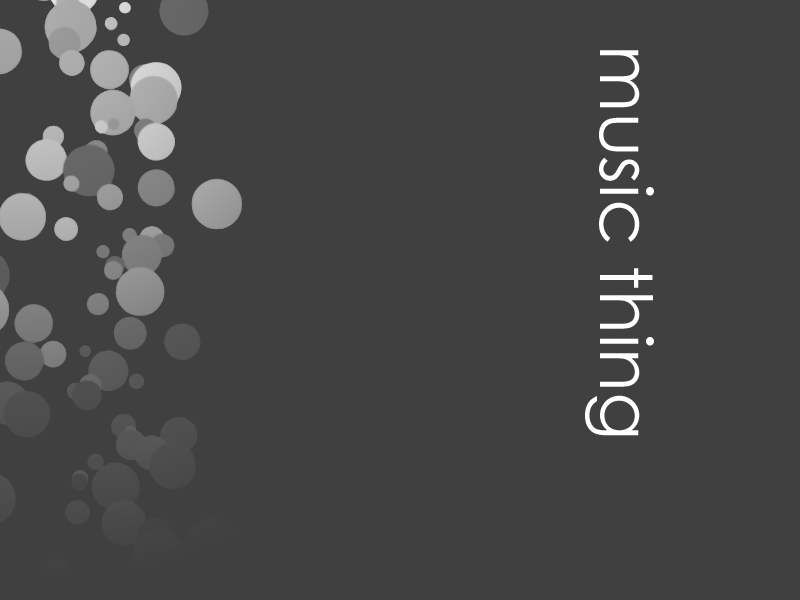
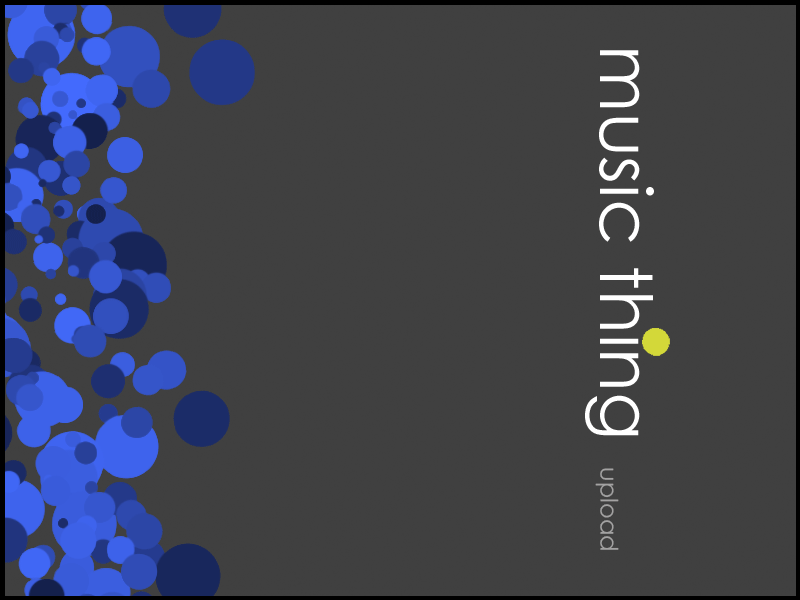
Updated images and styles

Changed region(s): [[0.0, 0.0, 1.0, 1.0], [0.75, 0.78, 0.7812, 0.93], [0.7812, 0.54, 0.8438, 0.6]]

diff --git a/public/stylesheets/playlist.css b/public/stylesheets/playlist.css
@@ -1,6 +1,6 @@
 body
 {
-background-color:#404040;
+background-color:black;
 }
 
 .playlist_box
@@ -58,9 +58,19 @@ background-color:#404040;
 {
 	position:absolute; 
 	left:5px; 
-	width:360px; 
+	width:375px; 
 	height:45px; 
-	background-color:#AAAAAA; 
+	background-color:white; 
+	overflow:hidden;
+}
+
+.track_box_active
+{
+	position:absolute; 
+	left:5px; 
+	width:375px; 
+	height:45px; 
+	background-color:#D3D839; 
 	overflow:hidden;
 }
 
